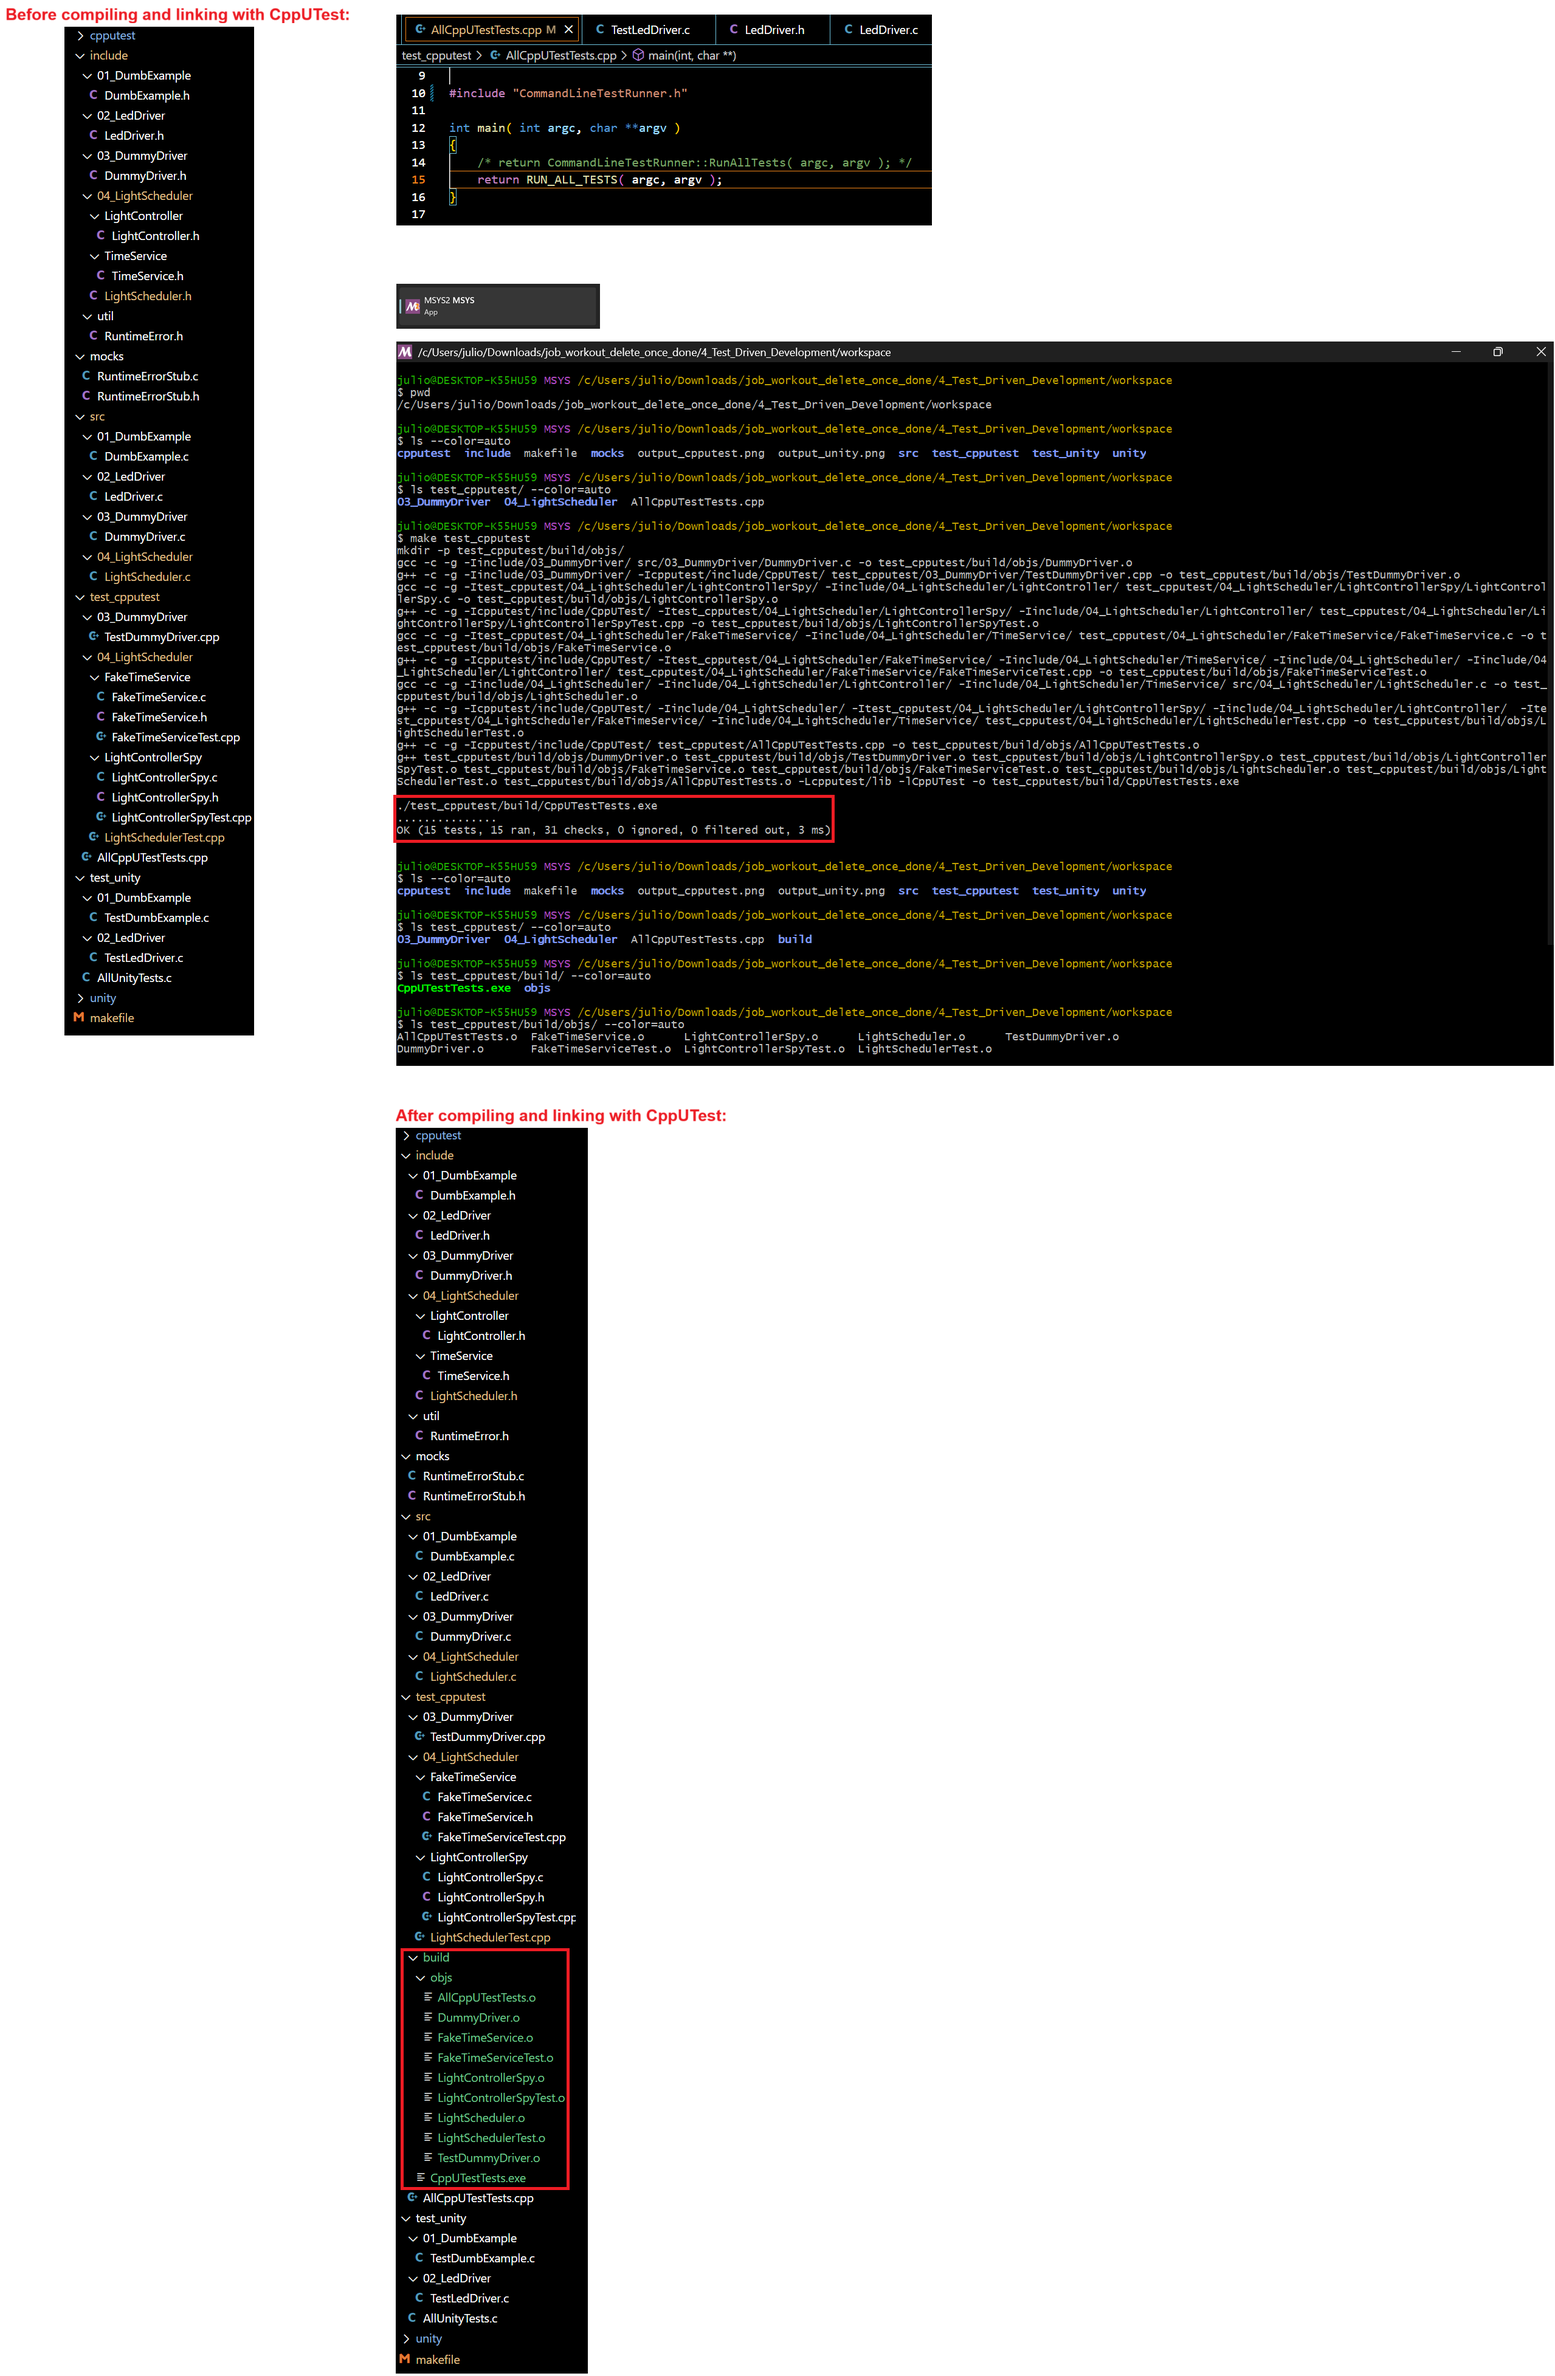
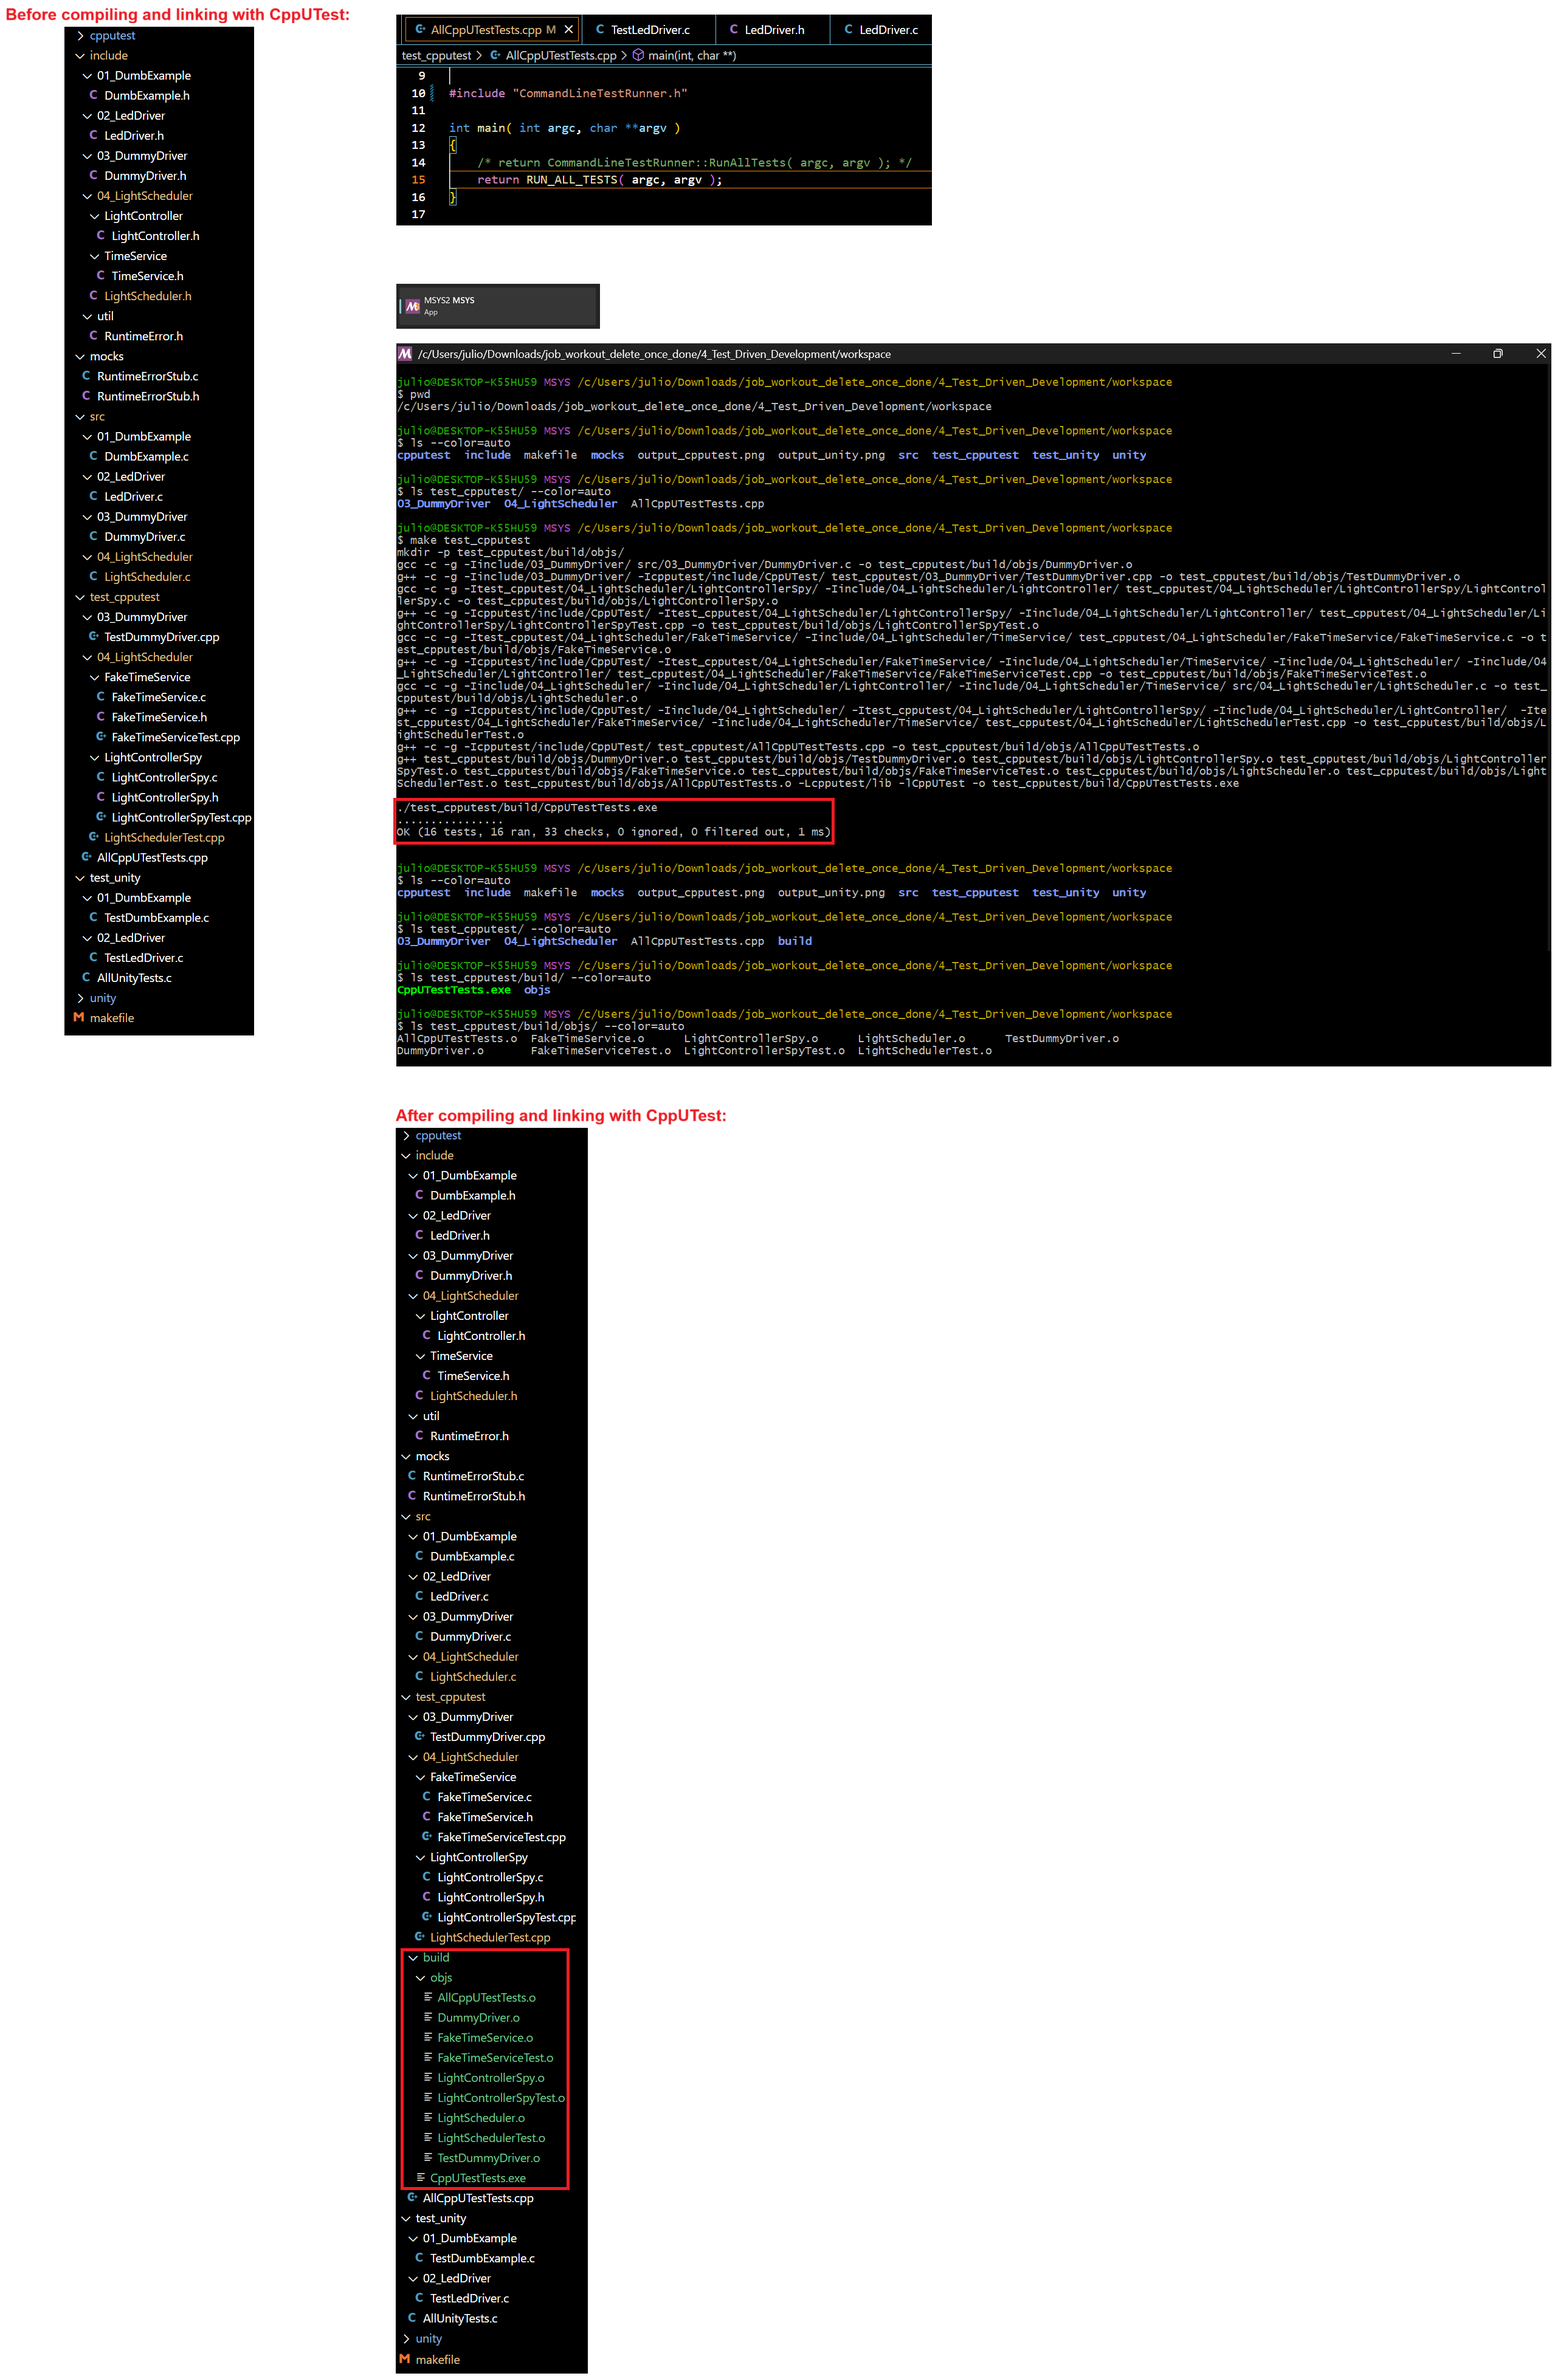
Add LightScheduler ScheduleWeekendItsSaturday test

Changed region(s): [[0.2471, 0.1248, 1.0, 0.468]]

diff --git a/test_cpputest/04_LightScheduler/LightSchedulerTest.cpp b/test_cpputest/04_LightScheduler/LightSchedulerTest.cpp
@@ -277,3 +277,25 @@ TEST( LightScheduler, ScheduleWeekendItsFriday )
        but its currently friday 8pm, light ID and light state keep their initial states) */
     checkLightState( LIGHT_ID_UNKNOWN, LIGHT_STATE_UNKNOWN );
 }
+
+TEST( LightScheduler, ScheduleWeekendItsSaturday )
+{
+    /* after initialization of the Light Scheduler there are no scheduled events
+       (setup() calls LightController_Create() which sets both the last scheduled light ID
+       and last scheduled light state as unknowns) */
+
+    /* schedule light with ID 3 to turn on on weekends (saturdays and sundays) at minute 1200 (8pm)*/
+    LightScheduler_ScheduleTurnOn( 3, WEEKEND, 1200 );
+
+    /* set the current (fake) time to saturday 8pm */
+    setTimeTo( SATURDAY, 1200 );
+
+    /* callback to Light Scheduler wakeup (this compares the current time to any scheduled events,
+       if there's a match then it will turn on or off the specified light ID) */
+    LightScheduler_Wakeup();
+
+    /* compare the light ID and its state, they should be light ID 3 and light state on because the
+       scheduled event has been reached (scheduled light ID 3 on on weekends (saturdays and sundays) for 8pm.
+       Currently it's saturday 8pm, therefore light ID and light state must have been changed) */
+    checkLightState( 3, LIGHT_ON );
+}

diff --git a/src/04_LightScheduler/LightScheduler.c b/src/04_LightScheduler/LightScheduler.c
@@ -65,8 +65,11 @@ static void processEventDueNow( Time *time, ScheduledLightEvent *lightEvent )
     if ( lightEvent->id == UNUSED )
         return;
 
-    /* if the scheduled day for the light to be turned on/off is not everyday and is not today */
-    if ( ( scheduledDay != EVERYDAY ) && ( scheduledDay != today ) )
+    /* if the scheduled day for the light to be turned on/off:
+       - is not everyday and is not today (i.e. scheduled day is not set for everyday or day has not been reached) and ...
+       - is not weekday and today is not saturday (i.e. scheduled day is set for the weekends but today is not saturday) */
+    if ( ( scheduledDay != EVERYDAY ) && ( scheduledDay != today )
+      && ( scheduledDay != WEEKDAY ) && ( today != SATURDAY ) )
         return;
 
     /* if the scheduled minute for the light to be turned on/off is not the same as the current minute of the day */
